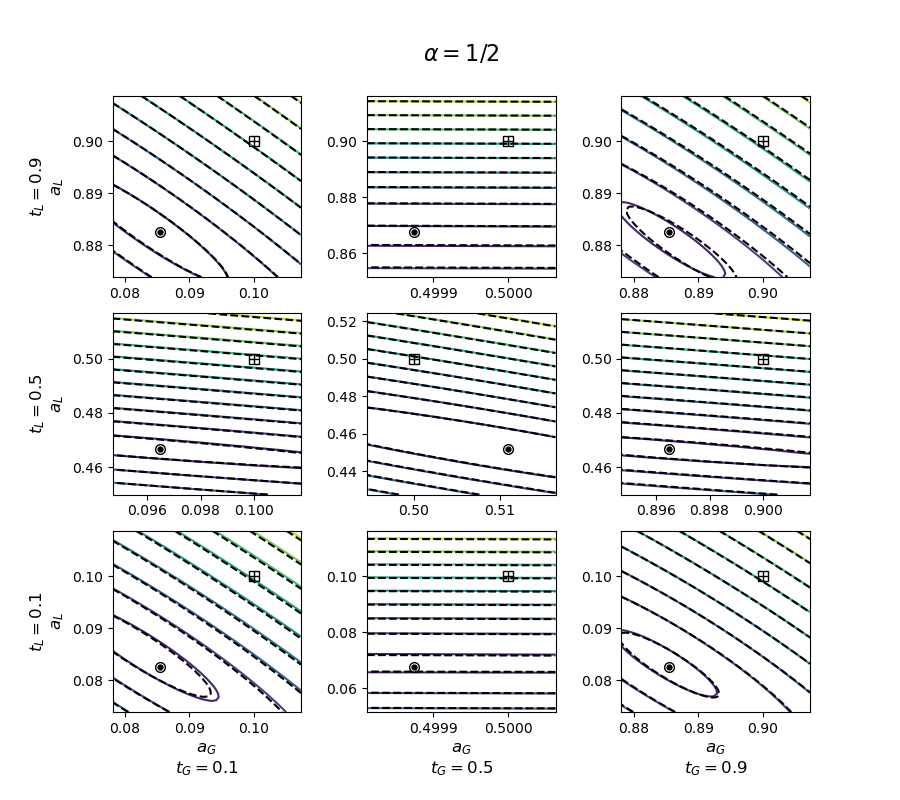
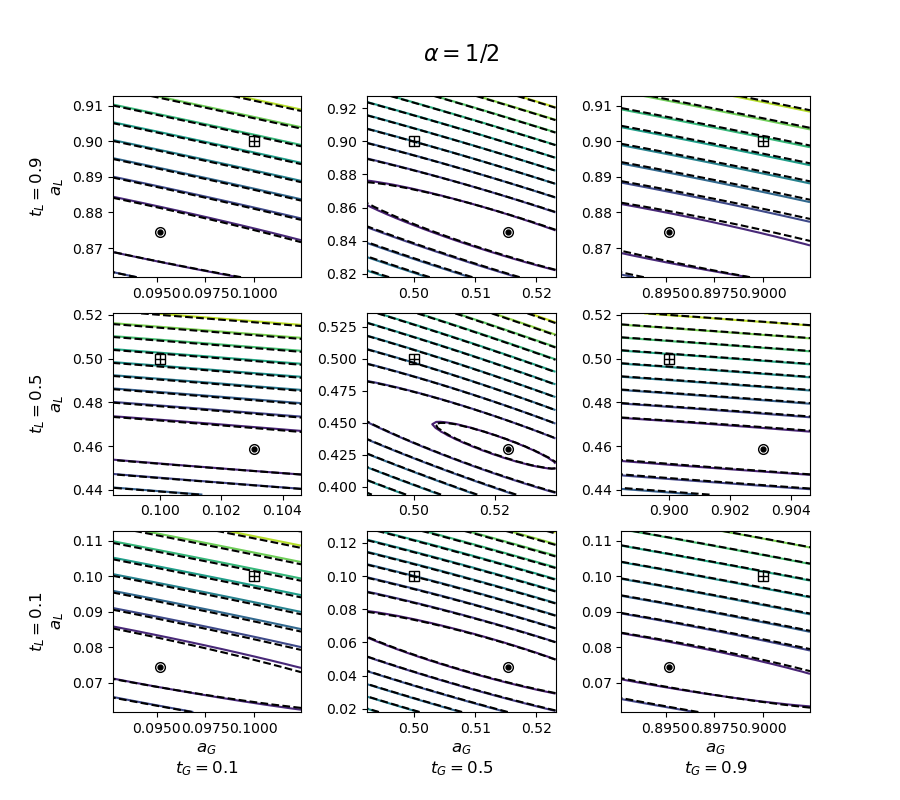
updated figures to include 0.14 DxG
this is the same number that was used for the spectra

Changed region(s): [[0.0622, 0.125, 0.6222, 0.9375], [0.6533, 0.125, 0.9022, 0.9375]]

diff --git a/figures/FIG4 RMS_error_isolated_pos_mean.py b/figures/FIG4 RMS_error_isolated_pos_mean.py
@@ -16,7 +16,7 @@ d_arr = np.array([-0.99] + list(np.arange(-0.95,1.0,0.025)) + [0.99])
 alpha_arr = (1+d_arr)/(1-d_arr)
 
 dxv = 0.05
-dxG = 0.1
+dxG = 0.14
 dxL = 0.2
 
 Erms_sim = []
@@ -101,8 +101,8 @@ for alpha in alpha_arr:
 plt.plot(d_arr,Erms_w1,label = 'Whiting 1')
 plt.plot(d_arr,Erms_w2,label = 'Whiting 2')
 plt.plot(d_arr,Erms_liu,label = 'Liu et al.')
-plt.plot(d_arr,Erms_sim,label = 'Simple\n({:.2f},{:.1f},{:.1f})'.format(dxv,dxG,dxL))
-plt.plot(d_arr,Erms_opt,label = 'Optimized\n({:.2f},{:.1f},{:.1f}) '.format(dxv,dxG,dxL))
+plt.plot(d_arr,Erms_sim,label = 'Simple\n({:.2f},{:.2f},{:.1f})'.format(dxv,dxG,dxL))
+plt.plot(d_arr,Erms_opt,label = 'Optimized\n({:.2f},{:.2f},{:.1f}) '.format(dxv,dxG,dxL))
 
 
 plt.grid(True)
@@ -124,6 +124,7 @@ E_est_opt = vl.average_error_optimized(dxv,dxG,dxL,alpha_arr,ksi_max = 100)
 plt.plot(d_arr,E_est_opt,'k--')
 
 plt.legend()
+plt.savefig('error_comparison.png')
 plt.show()
 
 sys.exit()

diff --git a/figures/FIG3 integral_error_voigt_comparison.py b/figures/FIG3 integral_error_voigt_comparison.py
@@ -11,7 +11,7 @@ x_max = 10.0
 x = np.arange(0,x_max,dx)
 
 dxv  = 0.05
-dxG  = 0.1
+dxG  = 0.14
 dxL  = 0.2
 
 tv = 0.5
